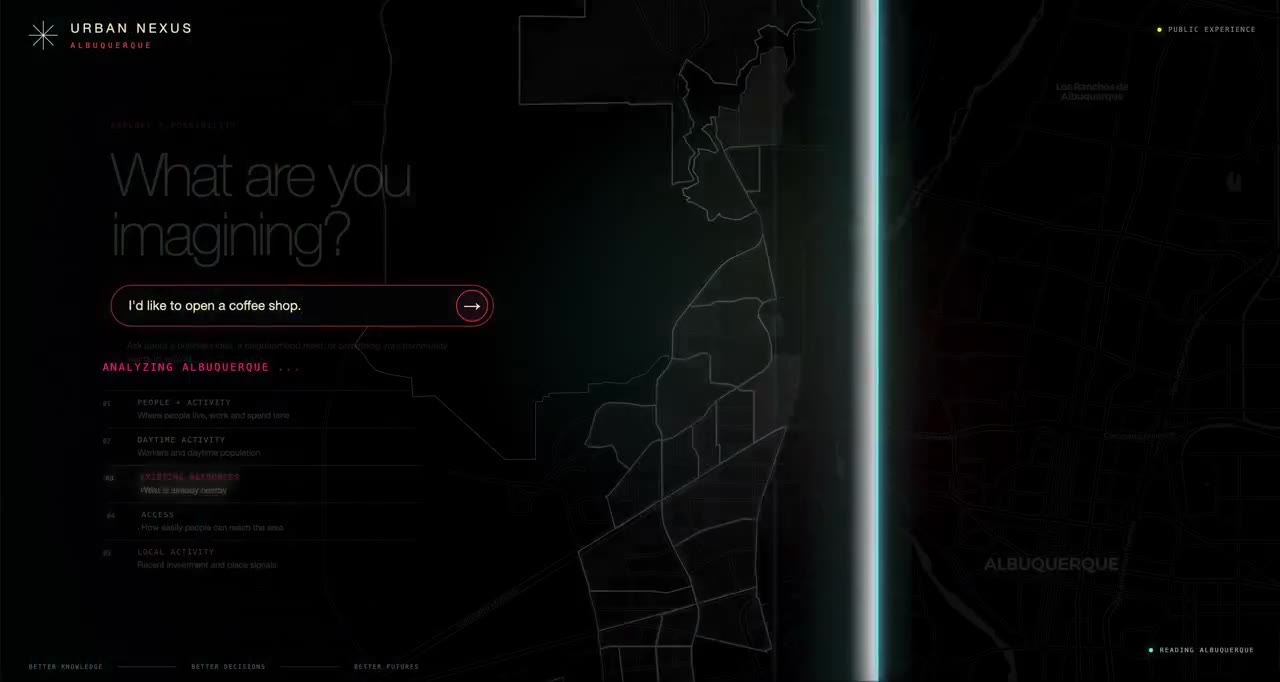
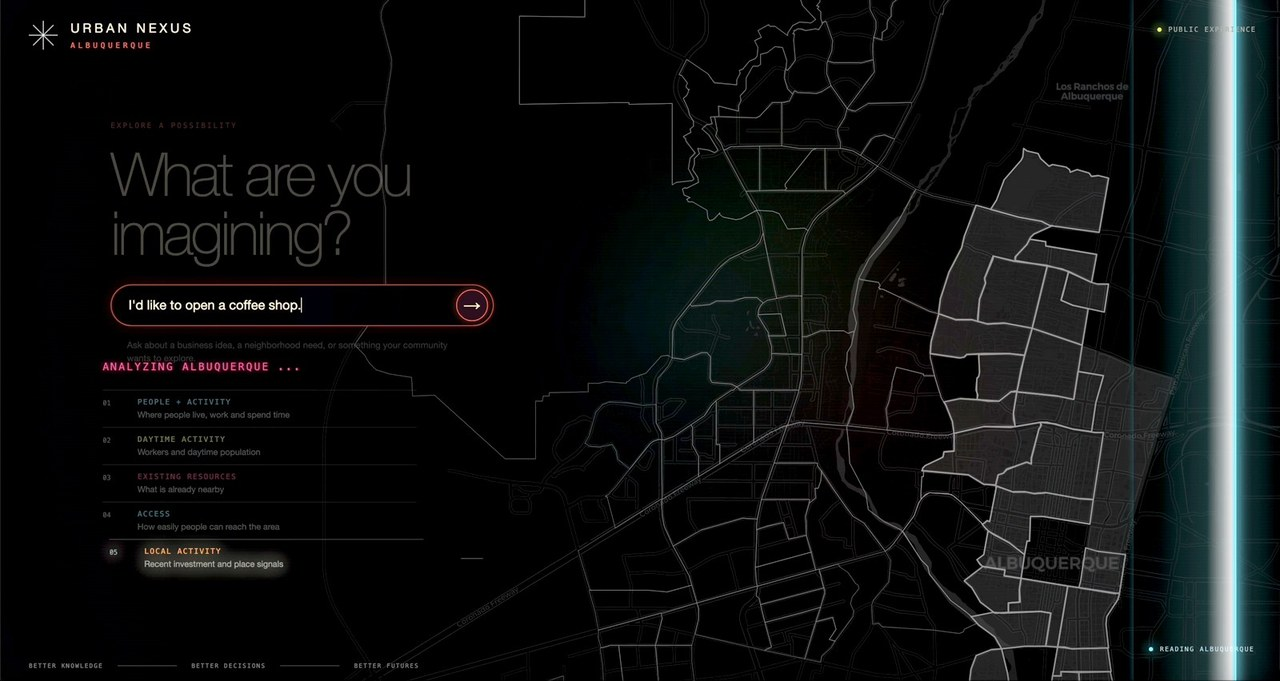
Keep the pointer visible in case studies; brighter Urban Nexus scanner frame
Claude-Session: https://claude.ai/code/session_018b1HGn7mDJuVx96GkAP5S8

diff --git a/index.html b/index.html
@@ -9,7 +9,7 @@
 <link rel="preconnect" href="https://fonts.googleapis.com">
 <link rel="preconnect" href="https://fonts.gstatic.com" crossorigin>
 <link rel="stylesheet" href="https://fonts.googleapis.com/css2?family=Fraunces:ital,opsz,wght,SOFT@0,9..144,300..600,0..100;1,9..144,300..600,0..100&family=IBM+Plex+Mono:wght@400;500;600&family=Patrick+Hand&family=Montserrat:ital,wght@0,400;0,500;0,600;0,700;0,800;1,400&display=swap">
-<link rel="stylesheet" href="assets/site.css?v=20261123b">
+<link rel="stylesheet" href="assets/site.css?v=20261123c">
 </head>
 <body>
 <header class="top">
@@ -324,6 +324,6 @@
 <div class="cur" id="cur" aria-hidden="true"></div><div class="cur-ring" id="curRing" aria-hidden="true"></div>
 <script src="https://cdnjs.cloudflare.com/ajax/libs/three.js/r128/three.min.js"></script>
 <script src="https://cdn.jsdelivr.net/npm/three@0.128.0/examples/js/controls/OrbitControls.js"></script>
-<script src="assets/site.js?v=20261123b"></script>
+<script src="assets/site.js?v=20261123c"></script>
 </body>
 </html>

diff --git a/case-studies/index.html b/case-studies/index.html
@@ -10,7 +10,7 @@
 <link rel="preconnect" href="https://fonts.googleapis.com">
 <link rel="preconnect" href="https://fonts.gstatic.com" crossorigin>
 <link rel="stylesheet" href="https://fonts.googleapis.com/css2?family=Fraunces:ital,opsz,wght,SOFT@0,9..144,300..600,0..100;1,9..144,300..600,0..100&family=IBM+Plex+Mono:wght@400;500;600&family=Patrick+Hand&family=Montserrat:ital,wght@0,400;0,500;0,600;0,700;0,800;1,400&display=swap">
-<link rel="stylesheet" href="../assets/site.css?v=20261123b">
+<link rel="stylesheet" href="../assets/site.css?v=20261123c">
 </head>
 <body>
 <header class="top">
@@ -320,6 +320,6 @@
   </div>
 </footer>
 <div class="cur" id="cur" aria-hidden="true"></div><div class="cur-ring" id="curRing" aria-hidden="true"></div>
-<script src="../assets/site.js?v=20261123b"></script>
+<script src="../assets/site.js?v=20261123c"></script>
 </body>
 </html>

diff --git a/contact/index.html b/contact/index.html
@@ -9,7 +9,7 @@
 <link rel="preconnect" href="https://fonts.googleapis.com">
 <link rel="preconnect" href="https://fonts.gstatic.com" crossorigin>
 <link rel="stylesheet" href="https://fonts.googleapis.com/css2?family=Fraunces:ital,opsz,wght,SOFT@0,9..144,300..600,0..100;1,9..144,300..600,0..100&family=IBM+Plex+Mono:wght@400;500;600&family=Patrick+Hand&family=Montserrat:ital,wght@0,400;0,500;0,600;0,700;0,800;1,400&display=swap">
-<link rel="stylesheet" href="../assets/site.css?v=20261123b">
+<link rel="stylesheet" href="../assets/site.css?v=20261123c">
 </head>
 <body>
 <header class="top">
@@ -159,6 +159,6 @@
   </div>
 </footer>
 <div class="cur" id="cur" aria-hidden="true"></div><div class="cur-ring" id="curRing" aria-hidden="true"></div>
-<script src="../assets/site.js?v=20261123b"></script>
+<script src="../assets/site.js?v=20261123c"></script>
 </body>
 </html>

diff --git a/how-we-work/index.html b/how-we-work/index.html
@@ -9,7 +9,7 @@
 <link rel="preconnect" href="https://fonts.googleapis.com">
 <link rel="preconnect" href="https://fonts.gstatic.com" crossorigin>
 <link rel="stylesheet" href="https://fonts.googleapis.com/css2?family=Fraunces:ital,opsz,wght,SOFT@0,9..144,300..600,0..100;1,9..144,300..600,0..100&family=IBM+Plex+Mono:wght@400;500;600&family=Patrick+Hand&family=Montserrat:ital,wght@0,400;0,500;0,600;0,700;0,800;1,400&display=swap">
-<link rel="stylesheet" href="../assets/site.css?v=20261123b">
+<link rel="stylesheet" href="../assets/site.css?v=20261123c">
 </head>
 <body>
 <header class="top">
@@ -345,6 +345,6 @@
   </div>
 </footer>
 <div class="cur" id="cur" aria-hidden="true"></div><div class="cur-ring" id="curRing" aria-hidden="true"></div>
-<script src="../assets/site.js?v=20261123b"></script>
+<script src="../assets/site.js?v=20261123c"></script>
 </body>
 </html>

diff --git a/work-with-nexus/index.html b/work-with-nexus/index.html
@@ -9,7 +9,7 @@
 <link rel="preconnect" href="https://fonts.googleapis.com">
 <link rel="preconnect" href="https://fonts.gstatic.com" crossorigin>
 <link rel="stylesheet" href="https://fonts.googleapis.com/css2?family=Fraunces:ital,opsz,wght,SOFT@0,9..144,300..600,0..100;1,9..144,300..600,0..100&family=IBM+Plex+Mono:wght@400;500;600&family=Patrick+Hand&family=Montserrat:ital,wght@0,400;0,500;0,600;0,700;0,800;1,400&display=swap">
-<link rel="stylesheet" href="../assets/site.css?v=20261123b">
+<link rel="stylesheet" href="../assets/site.css?v=20261123c">
 </head>
 <body>
 <header class="top">
@@ -119,6 +119,6 @@
   </div>
 </footer>
 <div class="cur" id="cur" aria-hidden="true"></div><div class="cur-ring" id="curRing" aria-hidden="true"></div>
-<script src="../assets/site.js?v=20261123b"></script>
+<script src="../assets/site.js?v=20261123c"></script>
 </body>
 </html>

diff --git a/assets/site.css b/assets/site.css
@@ -3016,3 +3016,7 @@ html.solo #hdeck .specimen{height:calc(100vh - 64px)!important;max-height:none!i
 html.solo #hdeck .control{padding:.6rem 1rem;color:#C3CBE8}
 .cs-gal .cs-wide{grid-column:1/-1}
 .cs-gal .cs-wide video{aspect-ratio:16/9;background:#000}
+/* case study open: use the normal pointer (the custom cursor sits below the dialog layer) */
+html.case-open.has-cur,html.case-open.has-cur *{cursor:auto!important}
+html.case-open.has-cur a,html.case-open.has-cur button,html.case-open.has-cur video{cursor:pointer!important}
+html.case-open .cur,html.case-open .cur-ring{opacity:0!important}

diff --git a/assets/site.js b/assets/site.js
@@ -1547,6 +1547,7 @@ try{
 /* bullseye cursor: only for devices with a precise pointer */
 (function(){
   if(!window.matchMedia('(hover: hover) and (pointer: fine)').matches) return;
+  if(/[?&]solo=/.test(location.search)) return;
   var root=document.documentElement, cur=document.getElementById('cur'), ring=document.getElementById('curRing');
   var reduce=window.matchMedia('(prefers-reduced-motion: reduce)').matches, cx=-100, cy=-100, rx=-100, ry=-100, on=false;
   var HOT='a,button,summary,label,[role="tab"],input[type="range"],.lq-3d,.deck-card canvas,.yt-btn';
